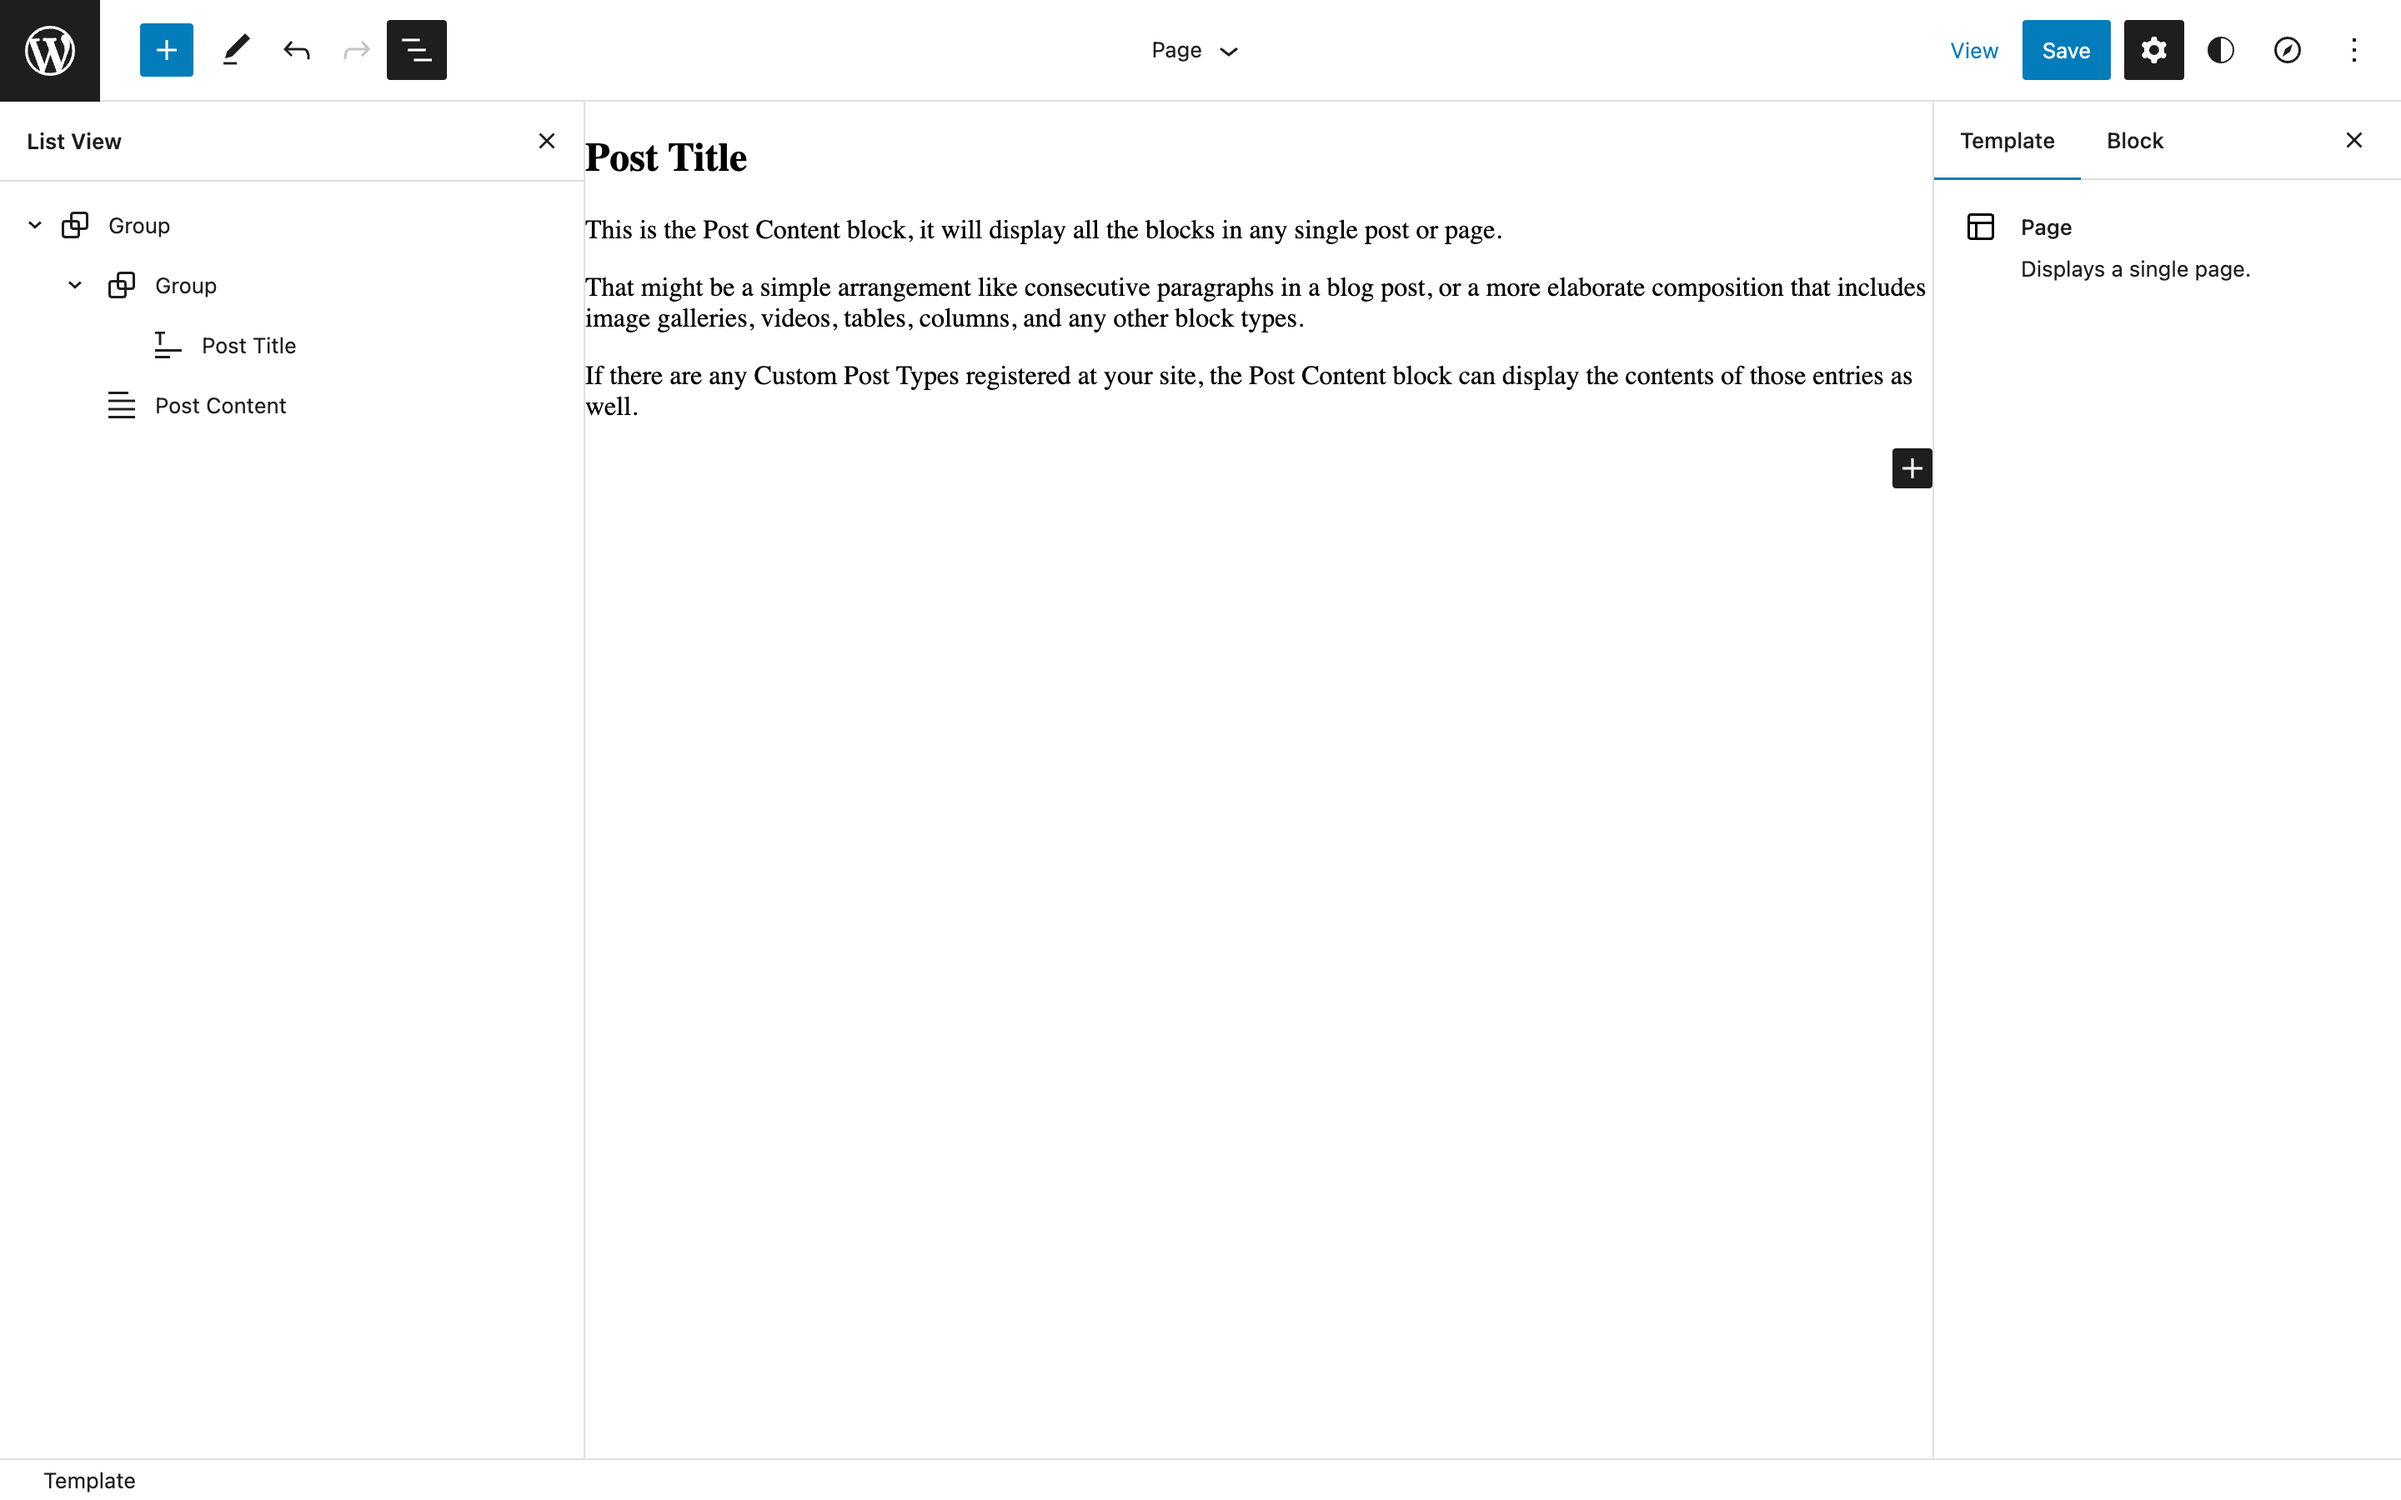
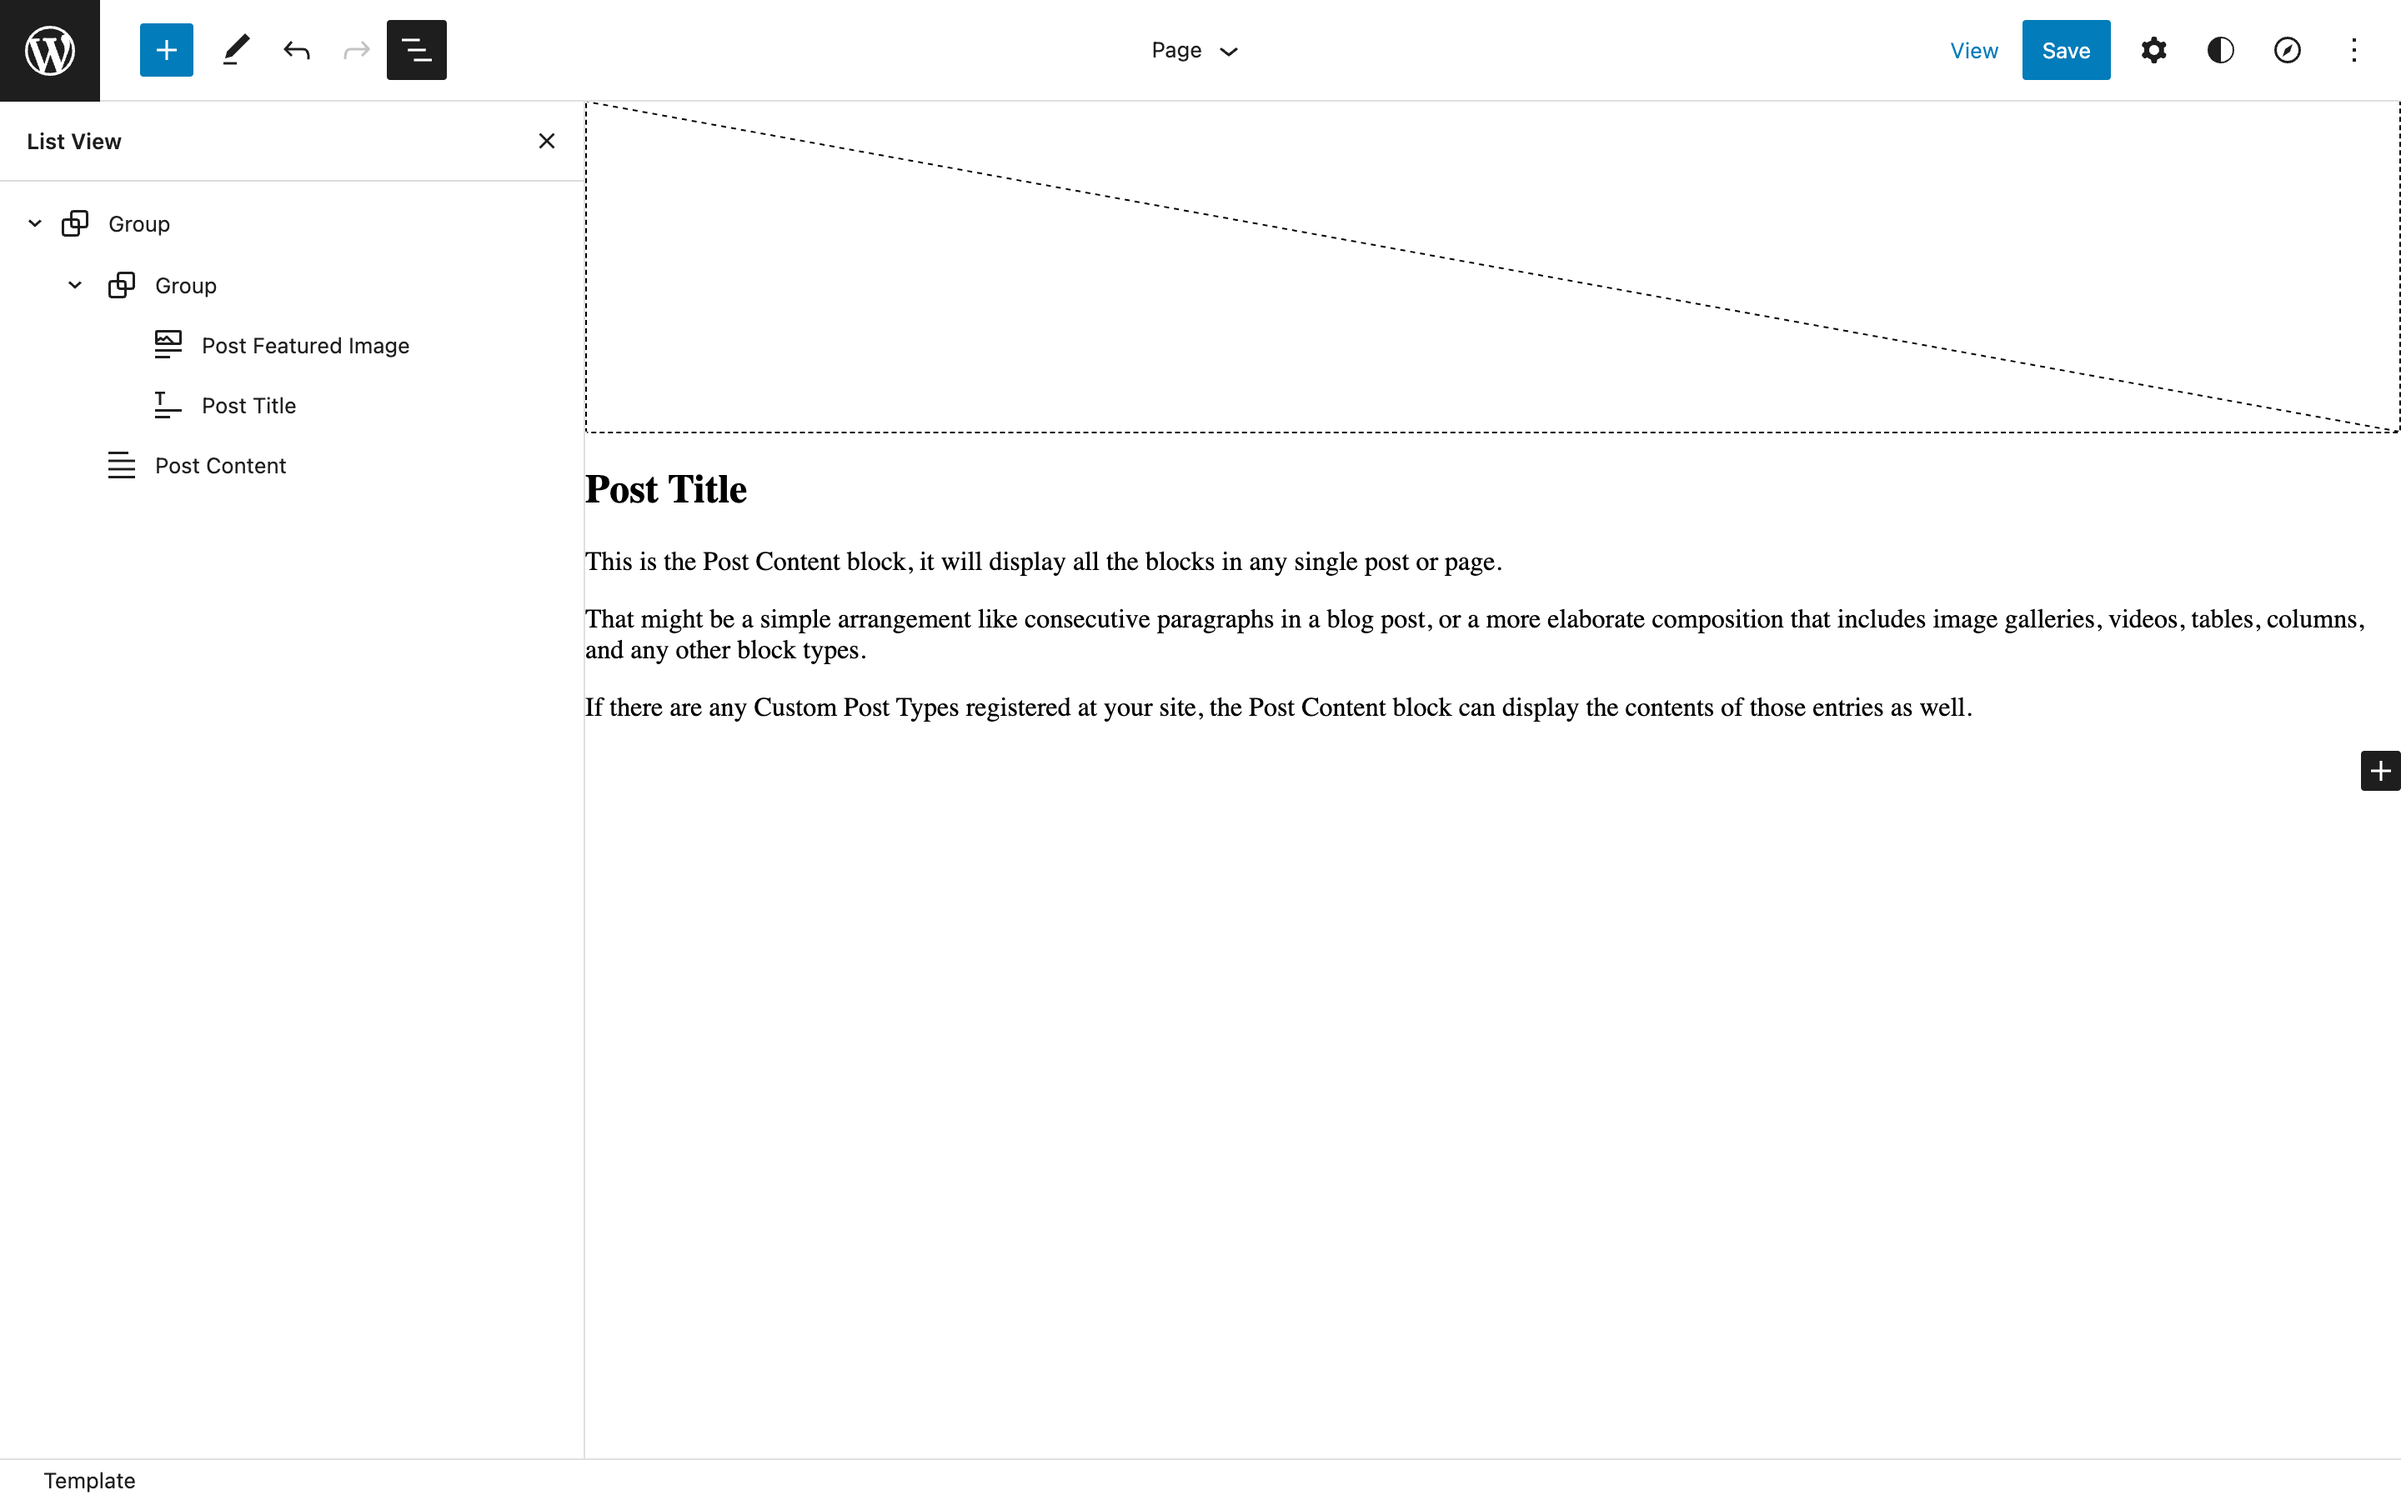
Module 1 updates

diff --git a/module-01/02-Review-Templates.md b/module-01/02-Review-Templates.md
@@ -115,8 +115,8 @@ Because a page in WordPress is merely a custom post type, you can use the Post T
 > 1. Add a **Group** block to the template.
 > 2. Add a **Post Content** block to the group.
 > 3. Add another **Group** block to the template, before the **Post Content** block.
-> 4. Add a **Post Title** block to the second **Group** block.
-> 5. Add a **Post Featured Image** block to the second **Group** block.
+> 4. Add a **Post Featured Image** block to the second **Group** block.
+> 5. Add a **Post Title** block to the second **Group** block.
 
 Your final page template should look something like this:
 
